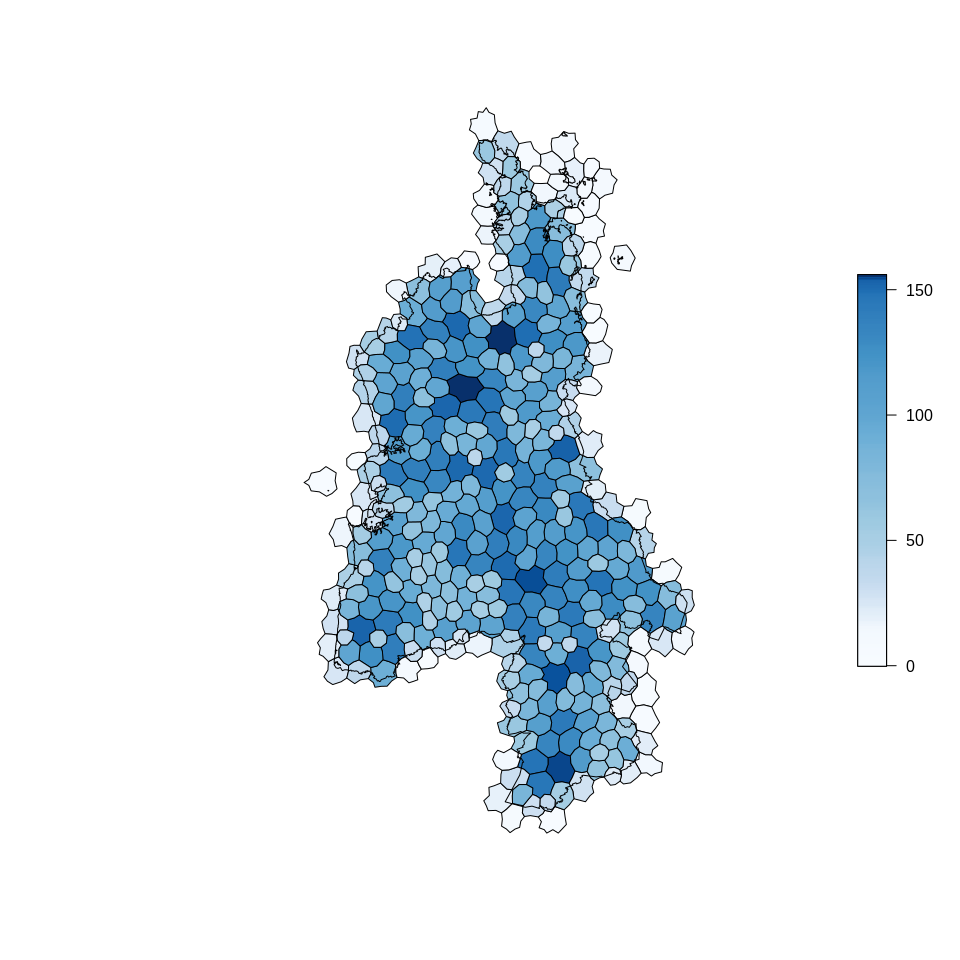
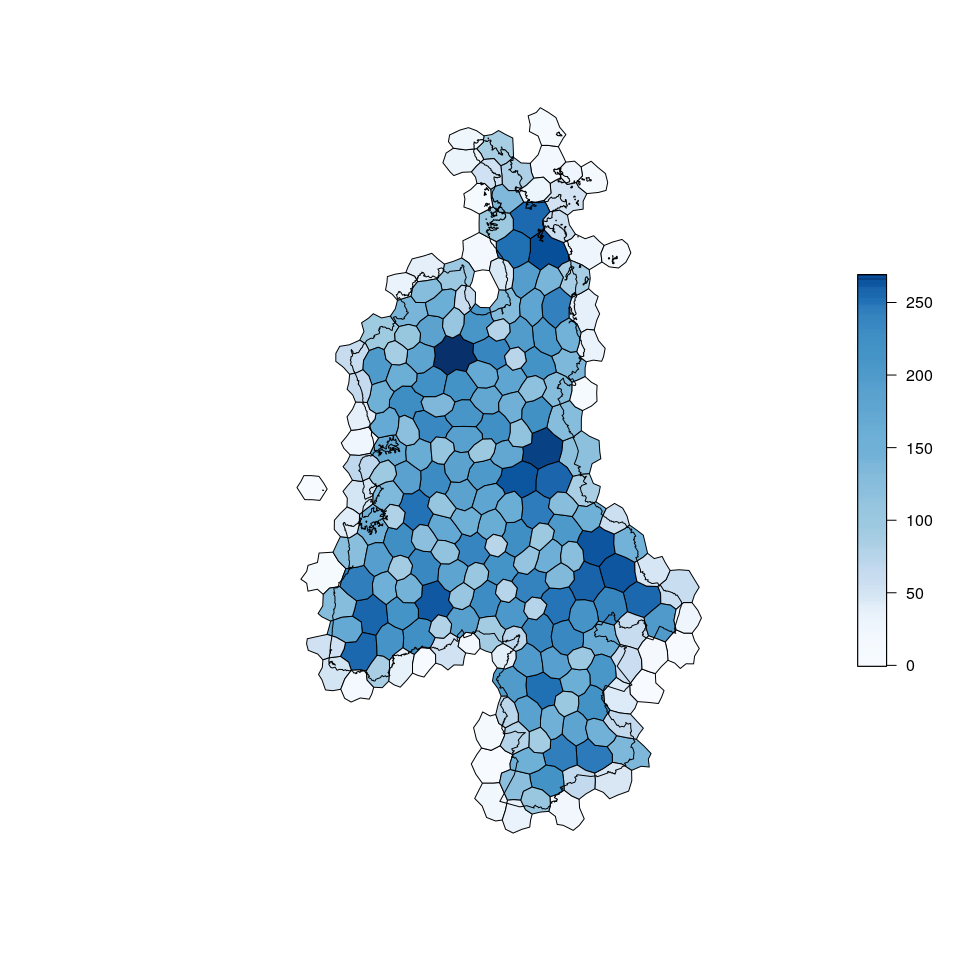
LGCP example

diff --git a/inst/docs/LGCP.md b/inst/docs/LGCP.md
@@ -1,4 +1,5 @@
-To install the `R` package `stelfi` run `devtools::install_github("cmjt/stelfi")`.
+To install the `R` package `stelfi` run
+`devtools::install_github("cmjt/stelfi")`.
 
 ``` r
 library(stelfi)
@@ -42,7 +43,7 @@ head(murders_nz)
 | Bay of Plenty     |      94|
 | Canterbury        |     116|
 | Gisborne          |      17|
-| Hawke's Bay       |      44|
+| Hawke’s Bay       |      44|
 | Manawatu-Wanganui |      65|
 | Marlborough       |       6|
 | Nelson            |      16|
@@ -54,6 +55,8 @@ head(murders_nz)
 | Waikato           |     108|
 | Wellington        |      89|
 | West Coast        |      11|
+
+*Number of murders by province.*
 
 ``` r
 data(nz) ## SpatialPolygonsDataFrame of NZ (NZTM projection)
@@ -70,11 +73,13 @@ temporal_murder_rate <- nrow(murders_nz)/length(table(murders_nz$Year))
 st_murder_rate <- (nrow(murders_nz)/area_nzkm2)/length(table(murders_nz$Year)) 
 ```
 
-Rate of murders per km<sup>2</sup> across NZ is calculated as 0.0036; there are roughly 60.438 per year. The spatio-temporal murder rate across NZ 2004--2019 is 2.2510^{-4} (rate per km<sup>2</sup> per year).
+There are on average 60.4 murders per year. The rate of murders per
+km<sup>2</sup> across NZ is roughly 0.004.
 
-### Subset to Auckland & transform to NZTM
+### Subset data to Waikato & transform to NZTM
 
-Transform `data.frame` to `SpatialPointsDataFrame`
+Transform `data.frame` to `SpatialPointsDataFrame` and project Longitude
+and Latitude to NZTM.
 
 ``` r
 murders_sp <- subset(murders_nz, murders_nz$Region == "Waikato")
@@ -96,7 +101,10 @@ waikato <- nz[nz$NAME_1 == "Waikato",]
 | Other              |      13|
 | Violent weapon     |      40|
 
-![](LGCP_files/figure-markdown_github/plot-1.png) *Locations of recorded (n = 108) murders in Waikato 2004--2019*
+*Number of murders by category in Waikato 2004–2019.*
+
+![](LGCP_files/figure-markdown_github/plot-1.png) *Locations of recorded
+(n = 108) murders in Waikato 2004–2019*
 
 log-Gaussian Cox process
 ------------------------
@@ -105,33 +113,18 @@ log-Gaussian Cox process
 
 #### Creating the mesh
 
-Typically when analysing point pattern data the point locations are not specified as the mesh nodes (i.e., locations are not given as an argument to `inla.mesh.2d()`). Instad we can supply the coordinates of the point pattern window (domain).
+Typically when analysing point pattern data the point locations are not
+specified as the mesh nodes (i.e., locations are not given as an
+argument to `inla.mesh.2d()`). Instad we can supply the coordinates of
+the point pattern window (domain).
 
 ``` r
 ## mesh max.edge on the same scale as the coords (NZTMs)
 mesh <- inla.mesh.2d(loc.domain = broom::tidy(waikato)[,1:2],
-                     max.edge = c(9000,15000), cutoff = 9000)
+                     max.edge = c(11000,20000), cutoff = 15000)
+## areas/weights at each mesh nodes
+weights <- stelfi::get_weights(mesh = mesh, sp = waikato, plot = FALSE)
 ```
-
-The SPDE approach for point pattern analysis defines the model at the nodes of the mesh. To fit the log-Cox point process model these points are considered as integration points. The method in Simpson et al. (2016) defines the expected number of events to be proportional to the area around the node (the areas of the polygons in the dual mesh, see below). This means that at the nodes of the mesh with larger triangles, there are also larger expected values.
-
-``` r
-weights <- stelfi::get_weights(mesh = mesh, sp = waikato, plot = TRUE)
-```
-
-![](LGCP_files/figure-markdown_github/dual%20mesh-1.png)
-
-``` r
-## these weights are the areas of each mesh triangle,
-## required for the "exposure" aspect of the LGCP.
-## the weights are set to zero if outside the study region
-## as here the they should have no contribution. 
-## the sum of the weights is the area of the study region
-```
-
-*Delauney triangulation of the domain (white) overlain on the Voronoi diagram representing the weights (area surrounding) of each mesh node (diamonds). Observations are plotted as circles, mesh nodes outwith the domain are shown in white.*
-
-![](LGCP_files/figure-markdown_github/plot%20weights-1.png) *Voronoi diagram of the weights (shown as areas in km2 around each mesh node).*
 
 ``` r
 ## Spatial only
@@ -146,7 +139,7 @@ summary(fit)
     ##    verbose, control.predictor = list(A = inla.stack.A(stack), ", " compute 
     ##    = TRUE), control.inla = control.inla, control.fixed = control.fixed)" ) 
     ## Time used:
-    ##     Pre = 4.94, Running = 14.2, Post = 0.426, Total = 19.5 
+    ##     Pre = 0.542, Running = 1.29, Post = 0.197, Total = 2.03 
     ## Fixed effects:
     ##      mean    sd 0.025quant 0.5quant 0.975quant   mode kld
     ## b0 -19.24 0.096    -19.429   -19.24    -19.051 -19.24   0
@@ -157,11 +150,11 @@ summary(fit)
     ## 
     ## Model hyperparameters:
     ##                  mean    sd 0.025quant 0.5quant 0.975quant  mode
-    ## Range for field 1.251 1.940      0.116    0.688      5.872 0.281
-    ## Stdev for field 0.234 0.269      0.020    0.153      0.939 0.055
+    ## Range for field 0.886 1.063      0.100    0.567       3.62 0.255
+    ## Stdev for field 0.272 0.294      0.029    0.185       1.05 0.078
     ## 
     ## Expected number of effective parameters(stdev): 1.00(0.00)
-    ## Number of equivalent replicates : 1468.99 
+    ## Number of equivalent replicates : 876.40 
     ## 
     ## Marginal log-Likelihood:  -2192.33 
     ## Posterior marginals for the linear predictor and
@@ -173,7 +166,7 @@ fit$summary.fixed
 ```
 
     ##         mean         sd 0.025quant  0.5quant 0.975quant      mode          kld
-    ## b0 -19.23967 0.09624808  -19.42864 -19.23968  -19.05086 -19.23967 6.208903e-25
+    ## b0 -19.23967 0.09624817  -19.42864 -19.23968  -19.05086 -19.23967 6.982366e-26
 
 ``` r
 ## expected number of murders at each mesh node
@@ -189,33 +182,63 @@ fields <- stelfi::get_fields(fit, mesh, mean = TRUE)
 grfs <- fields[[1]]
 show_field(grfs, mesh, dims = c(300,300),
          col = RColorBrewer::brewer.pal(9, "Blues"), sp = waikato,
-             rast = FALSE, legend = TRUE, FALSE)
+             rast = FALSE, legend = TRUE, legend.only = FALSE)
 ```
 
-![](LGCP_files/figure-markdown_github/random%20fields-1.png) *Estimated mean of the assumed Gaussian Markov Random Field*
+![](LGCP_files/figure-markdown_github/random%20fields-1.png) *Estimated
+mean of the assumed Gaussian Markov Random Field*
 
 ``` r
-## Spatiotemporal
-temp <- murders_sp$Year - min(murders_sp$Year) + 1
-fit_temp <- fit_lgcp_inla(mesh = mesh, locs = coordinates(murders_sp), sp = waikato,
-     temp = temp)
+fields <- stelfi::get_fields(fit, mesh, mean = FALSE)
+grfsd <- fields[[1]]
+show_field(grfsd, mesh, dims = c(300,300),
+         col = RColorBrewer::brewer.pal(9, "Blues"), sp = waikato,
+             rast = FALSE, legend = TRUE, legend.only = FALSE)
 ```
 
-### "Raw" `INLA`
+![](LGCP_files/figure-markdown_github/random%20fields%20sd-1.png)
+*Standard error of the assumed Gaussian Markov Random Field*
 
-**Steps below closely follow this [INLA-SPDE tutorial](https://becarioprecario.bitbucket.io/spde-gitbook/ch-lcox.html)**.
+### “Raw” `INLA`
 
-#### Spatial only LGCP
+**Steps below closely follow this [INLA-SPDE
+tutorial](https://becarioprecario.bitbucket.io/spde-gitbook/ch-lcox.html)**.
+
+The SPDE approach for point pattern analysis defines the model at the
+nodes of the mesh. To fit the log-Cox point process model these points
+are considered as integration points. The method in Simpson et al.
+(2016) defines the expected number of events to be proportional to the
+area around the node (the areas of the polygons in the dual mesh, see
+below). This means that at the nodes of the mesh with larger triangles,
+there are also larger expected values.
+
+``` r
+## these weights are the areas of each mesh triangle,
+## required for the "exposure" aspect of the LGCP.
+## the weights are set to zero if outside the study region
+## as here the they should have no contribution. 
+## the sum of the weights is the area of the study region
+weights <- stelfi::get_weights(mesh = mesh, sp = waikato, plot = TRUE)
+```
+
+![](LGCP_files/figure-markdown_github/dual%20mesh-1.png) *Delauney
+triangulation of the domain (white) overlain on the Voronoi diagram
+representing the weights (area surrounding) of each mesh node
+(diamonds). Observations are plotted as circles, mesh nodes outwith the
+domain are shown in white.*
+
+![](LGCP_files/figure-markdown_github/plot%20weights-1.png) *Voronoi
+diagram of the weights (shown as areas in km2 around each mesh node).*
 
 ``` r
 ## number of mesh nodes
 nodes <- mesh$n
 ## define model
 spde <- inla.spde2.pcmatern(mesh = mesh,
-  # PC-prior on range: P(practic.range < 0.05) = 0.01
-  prior.range = c(0.05, 0.01),
-  # PC-prior on sigma: P(sigma > 1) = 0.01
-  prior.sigma = c(1, 0.01))
+  # PC-prior on range: P(practic.range < 5) = 0.9
+  prior.range = c(5, 0.9),
+  # PC-prior on sigma: P(sigma > 1) = 0.005
+  prior.sigma = c(1, 0.005))
 ## vector for observations
 y.pp <- rep(0:1, c(nodes, nrow(murders_sp)))
 ## exposure (E)
@@ -238,12 +261,42 @@ pp.res <- inla(y ~ 0 + b0 + f(i, model = spde),
   family = 'poisson', data = inla.stack.data(stk.pp), 
   control.predictor = list(A = inla.stack.A(stk.pp)), 
   E = inla.stack.data(stk.pp)$e)
+summary(pp.res)
+```
+
+    ## 
+    ## Call:
+    ##    c("inla(formula = y ~ 0 + b0 + f(i, model = spde), family = 
+    ##    \"poisson\", ", " data = inla.stack.data(stk.pp), E = 
+    ##    inla.stack.data(stk.pp)$e, ", " control.predictor = list(A = 
+    ##    inla.stack.A(stk.pp)))") 
+    ## Time used:
+    ##     Pre = 1.46, Running = 3.11, Post = 0.171, Total = 4.74 
+    ## Fixed effects:
+    ##      mean    sd 0.025quant 0.5quant 0.975quant    mode kld
+    ## b0 -19.24 0.096    -19.434  -19.238    -19.056 -19.234   0
+    ## 
+    ## Random effects:
+    ##   Name     Model
+    ##     i SPDE2 model
+    ## 
+    ## Model hyperparameters:
+    ##              mean    sd 0.025quant 0.5quant 0.975quant  mode
+    ## Range for i 0.886 1.063      0.100    0.567       3.62 0.255
+    ## Stdev for i 0.272 0.294      0.029    0.185       1.05 0.078
+    ## 
+    ## Expected number of effective parameters(stdev): 1.00(0.00)
+    ## Number of equivalent replicates : 876.40 
+    ## 
+    ## Marginal log-Likelihood:  -2192.33
+
+``` r
 ## fixed effects
 pp.res$summary.fixed
 ```
 
     ##         mean         sd 0.025quant  0.5quant 0.975quant      mode          kld
-    ## b0 -19.23973 0.09621838  -19.43379 -19.23792  -19.05585 -19.23433 2.156986e-07
+    ## b0 -19.23973 0.09621868  -19.43378 -19.23792  -19.05584 -19.23435 2.125857e-07
 
 ``` r
 ## expected number of murders at each mesh node
@@ -252,9 +305,10 @@ en <- exp(as.numeric(pp.res$summary.fixed[1]))*weights[ins]
 sum(en) ## expected number across Waikato, observed 108
 ```
 
-    ## [1] 108.0135
+    ## [1] 108.0136
 
-![](LGCP_files/figure-markdown_github/resp-1.png) *Estimated mean of the assumed Gaussian Markov Random Field*
+![](LGCP_files/figure-markdown_github/resp-1.png) *Estimated mean of the
+assumed Gaussian Markov Random Field*
 
 ##### Adding a covariate
 
@@ -270,7 +324,7 @@ pop <- rgdal::readOGR(file, layer = layer)
 ```
 
     ## OGR data source with driver: ESRI Shapefile 
-    ## Source: "/home/charlotte/Git/stelfi/inst/docs/data/population-by-meshblock-2013-census.shp", layer: "population-by-meshblock-2013-census"
+    ## Source: "/home/cjon911/Git/stelfi/inst/docs/data/population-by-meshblock-2013-census.shp", layer: "population-by-meshblock-2013-census"
     ## with 46621 features
     ## It has 4 fields
 
@@ -280,7 +334,8 @@ pop_mesh <- sp::over(SpatialPoints(mesh$loc[,1:2], proj4string = CRS(proj4string
 ## will obviously be NA at mesh nodes outside NZ
 ```
 
-![](LGCP_files/figure-markdown_github/inference-1.png) *Voronoi diagram of the covariate (population) per mesh node.*
+![](LGCP_files/figure-markdown_github/inference-1.png) *Voronoi diagram
+of the covariate (population) per mesh node.*
 
 ``` r
 pop_obs <- sp::over(murders_sp,pop)$Population
@@ -302,12 +357,12 @@ pp.cov <- inla(y ~ 0 + b0 + pop + f(i, model = spde),
 pp.cov$summary.fixed
 ```
 
-    ##              mean           sd    0.025quant      0.5quant    0.975quant
-    ## b0  -19.686379656 0.1265888536 -19.940116344 -19.684573519 -19.442881792
-    ## pop   0.005619561 0.0007521601   0.004053218   0.005650749   0.007009032
-    ##              mode          kld
-    ## b0  -19.680987262 9.994579e-09
-    ## pop   0.005713182 2.379353e-06
+    ##             mean          sd    0.025quant     0.5quant   0.975quant
+    ## b0  -20.20124160 0.181506685 -20.569371855 -20.19706947 -19.85652164
+    ## pop   0.01139917 0.001410219   0.008623022   0.01140167   0.01415872
+    ##             mode          kld
+    ## b0  -20.18879100 5.625604e-07
+    ## pop   0.01140678 1.027059e-06
 
 ``` r
 ## expected number of murders at each mesh node
@@ -317,49 +372,7 @@ en <- exp(as.numeric(pp.cov$summary.fixed[1,1]) +
 sum(en) ## expected number 
 ```
 
-    ## [1] 108.5103
-
-#### Spatio-tempoal LGCP
-
-``` r
-## space time SPDE
-## A set of knots over time needs to be defined in order to fit a
-## SPDE spatio-temporal model. It is then used to build a temporal mesh, as follows:
-
-## spatio temporal
-k <- length(table(murders_sp$Year))
-temp <- murders_sp$Year - min(murders_sp$Year) + 1
-## tknots <- seq(min(data$Year), max(data$Year), length = k) ## don't need this as year already discrete
-mesh.t <- inla.mesh.1d(1:k)
-## spatial spde
-spde <- inla.spde2.pcmatern(mesh = mesh,
-  prior.range = c(5, 0.01), # P(practic.range < 5) = 0.01
-  prior.sigma = c(1, 0.01)) # P(sigma > 1) = 0.01
-m <- spde$n.spde
-## spatio-temporal projection matrix
-Ast <- inla.spde.make.A(mesh = mesh, loc = coordinates(murders_sp),
-                        n.group = length(mesh.t$n), group = temp,
-                        group.mesh = mesh.t)
-## index set
-idx <- inla.spde.make.index('s', spde$n.spde, n.group = mesh.t$n)
-## spatio-temporal volume
-st.vol <- rep(weights, k) * rep(diag(inla.mesh.fem(mesh.t)$c0), m)
-y <- rep(0:1, c(k * m, nrow(murders_sp)))
-expected <- c(st.vol, rep(0, nrow(murders_sp)))
-stk <- inla.stack(
-    data = list(y = y, expect = expected), 
-    A = list(rbind(Diagonal(n = k * m), Ast), 1), 
-    effects = list(idx, list(a0 = rep(1, k * m + nrow(murders_sp)))))
-## formula
-pcrho <- list(prior = 'pccor1', param = c(0.7, 0.7))
-form <- y ~ 0 + a0 + f(s, model = spde, group = s.group, 
-                       control.group = list(model = 'ar1',
-                                            hyper = list(theta = pcrho)))
-res <- inla(form, family = 'poisson', 
-            data = inla.stack.data(stk), E = expect,
-            control.predictor = list(A = inla.stack.A(stk)),
-            control.inla = list(strategy = 'adaptive'))
-```
+    ## [1] 108.2688
 
 ### Using `TMB` TODO
 
